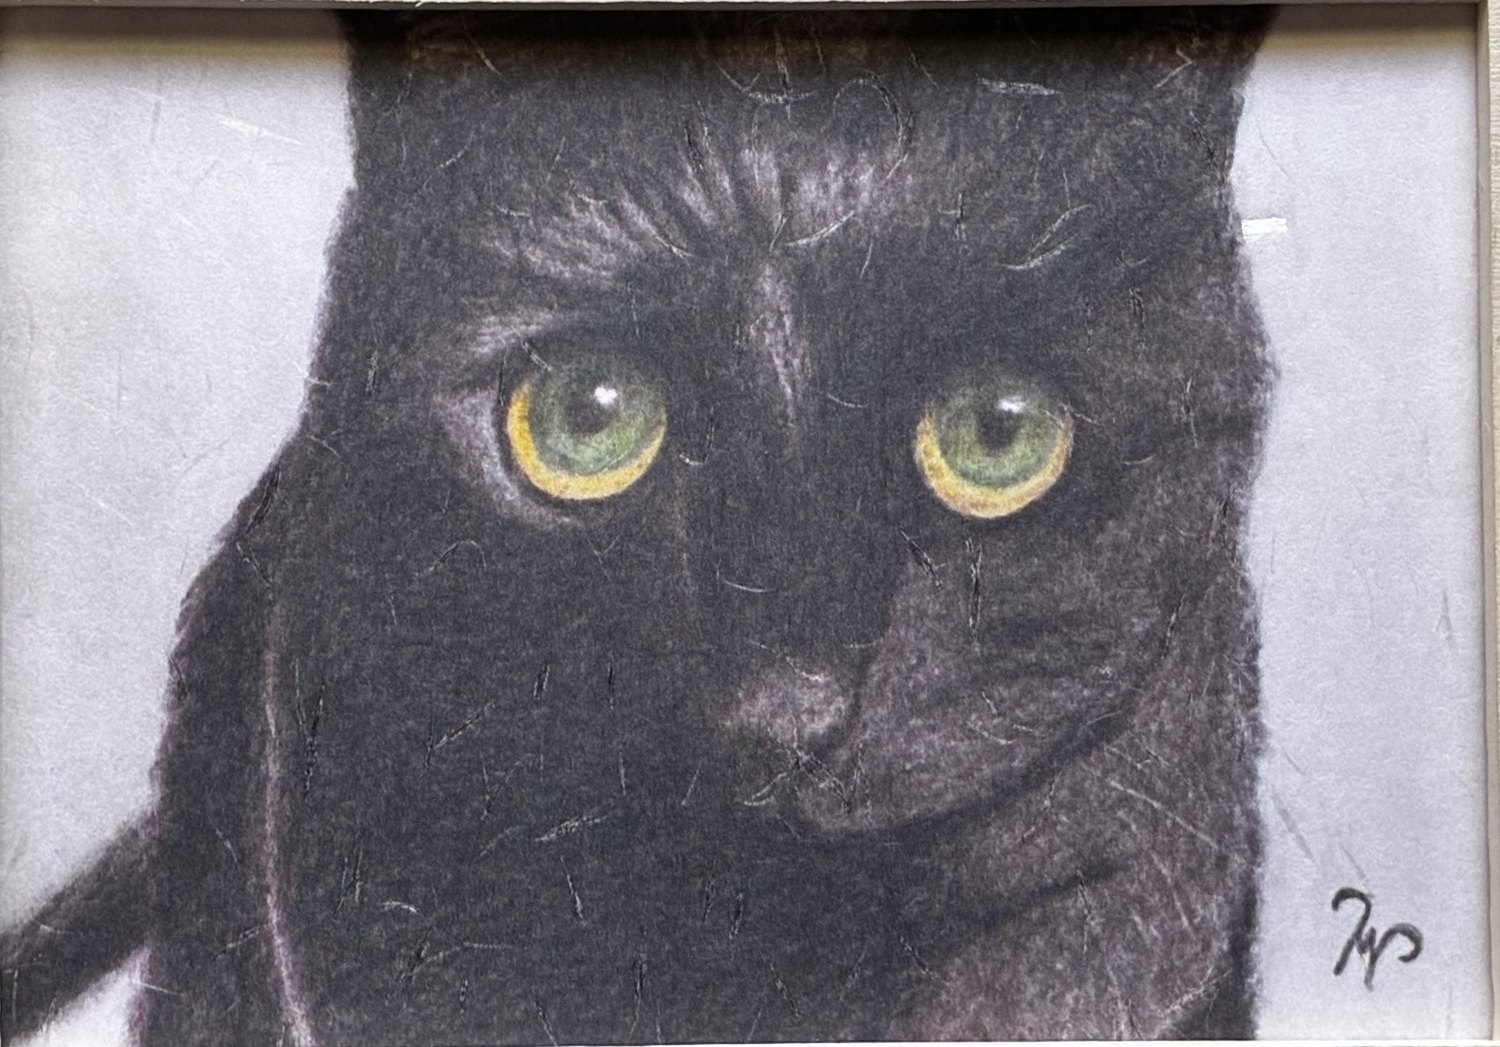
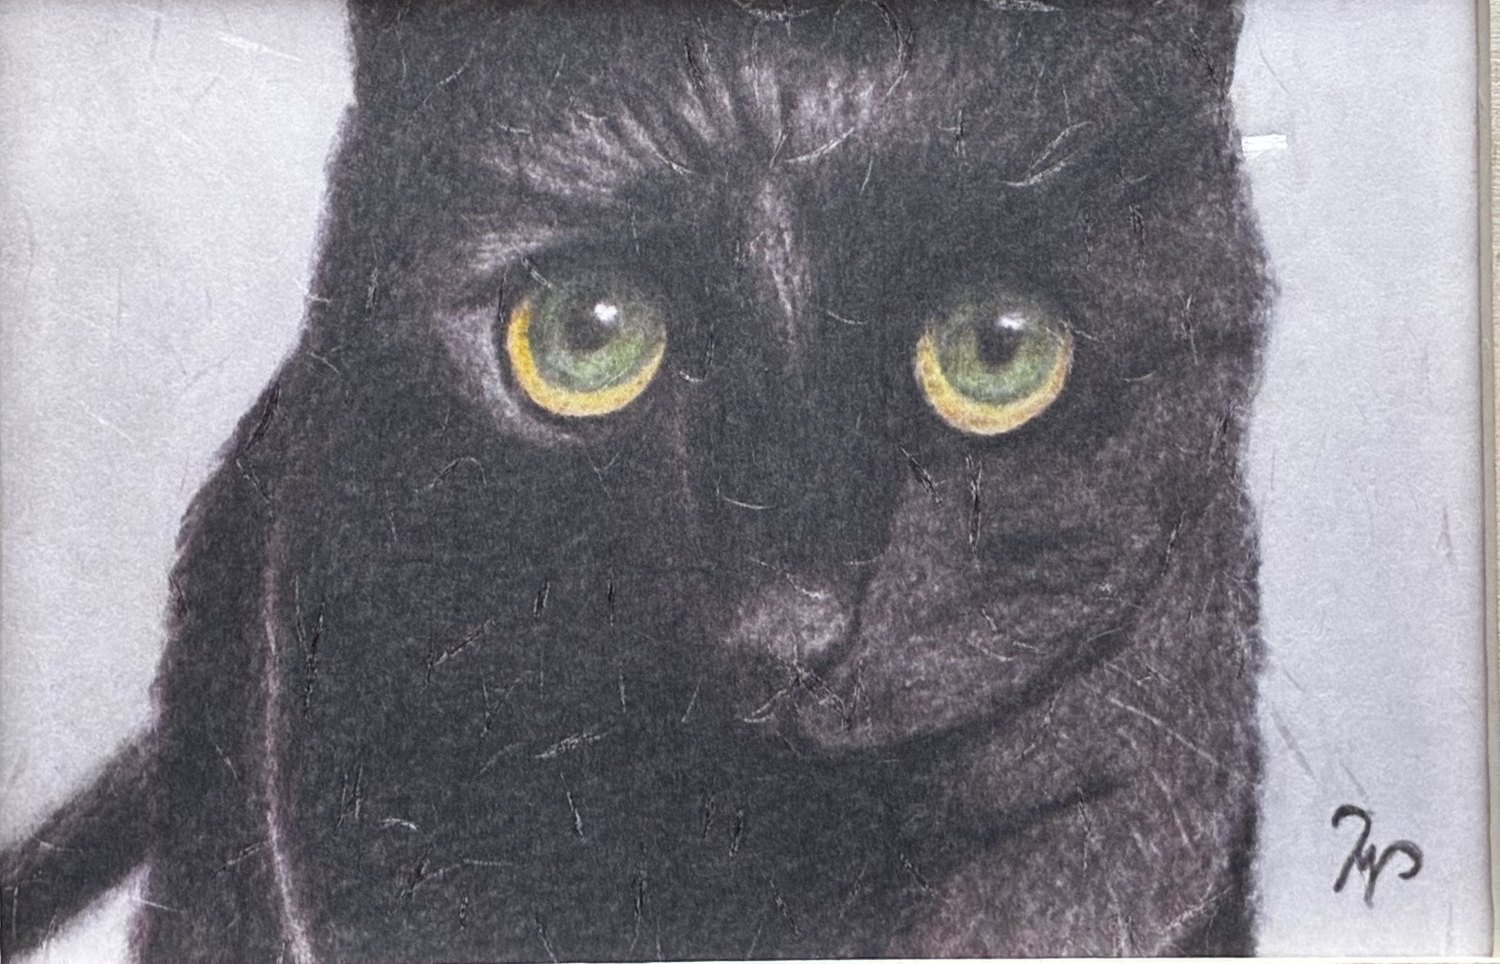
CAT-01・CAT-13・CAT-18 の上端に残っていた額縁の影を除去

diff --git a/index.html b/index.html
@@ -524,7 +524,7 @@ footer {
       <p class="series__note">横向きの作品から順に並んでいます</p>
       <div class="grid">
       <figure class="card card--yoko" data-code="CAT-01">
-        <button type="button" class="card__img" data-full="images/CAT-01.jpg" data-fulltitle="おじゃまします" data-code="CAT-01" aria-label="おじゃまします を大きく見る"><img src="images/CAT-01.jpg" alt="猫の絵「おじゃまします」" loading="lazy" width="1500" height="1047"></button>
+        <button type="button" class="card__img" data-full="images/CAT-01.jpg" data-fulltitle="おじゃまします" data-code="CAT-01" aria-label="おじゃまします を大きく見る"><img src="images/CAT-01.jpg" alt="猫の絵「おじゃまします」" loading="lazy" width="1500" height="964"></button>
         <figcaption class="card__body">
           <p class="card__title">おじゃまします</p>
           <div class="card__meta">
@@ -716,7 +716,7 @@ footer {
         </figcaption>
       </figure>
       <figure class="card card--tate" data-code="CAT-13">
-        <button type="button" class="card__img" data-full="images/CAT-13.jpg" data-fulltitle="にゃ〜〜" data-code="CAT-13" aria-label="にゃ〜〜 を大きく見る"><img src="images/CAT-13.jpg" alt="猫の絵「にゃ〜〜」" loading="lazy" width="1075" height="1500"></button>
+        <button type="button" class="card__img" data-full="images/CAT-13.jpg" data-fulltitle="にゃ〜〜" data-code="CAT-13" aria-label="にゃ〜〜 を大きく見る"><img src="images/CAT-13.jpg" alt="猫の絵「にゃ〜〜」" loading="lazy" width="1119" height="1500"></button>
         <figcaption class="card__body">
           <p class="card__title">にゃ〜〜</p>
           <div class="card__meta">
@@ -796,7 +796,7 @@ footer {
         </figcaption>
       </figure>
       <figure class="card card--tate" data-code="CAT-18">
-        <button type="button" class="card__img" data-full="images/CAT-18.jpg" data-fulltitle="お迎え猫ちゃん" data-code="CAT-18" aria-label="お迎え猫ちゃん を大きく見る"><img src="images/CAT-18.jpg" alt="猫の絵「お迎え猫ちゃん」" loading="lazy" width="975" height="1500"></button>
+        <button type="button" class="card__img" data-full="images/CAT-18.jpg" data-fulltitle="お迎え猫ちゃん" data-code="CAT-18" aria-label="お迎え猫ちゃん を大きく見る"><img src="images/CAT-18.jpg" alt="猫の絵「お迎え猫ちゃん」" loading="lazy" width="1005" height="1500"></button>
         <figcaption class="card__body">
           <p class="card__title">お迎え猫ちゃん</p>
           <div class="card__meta">
